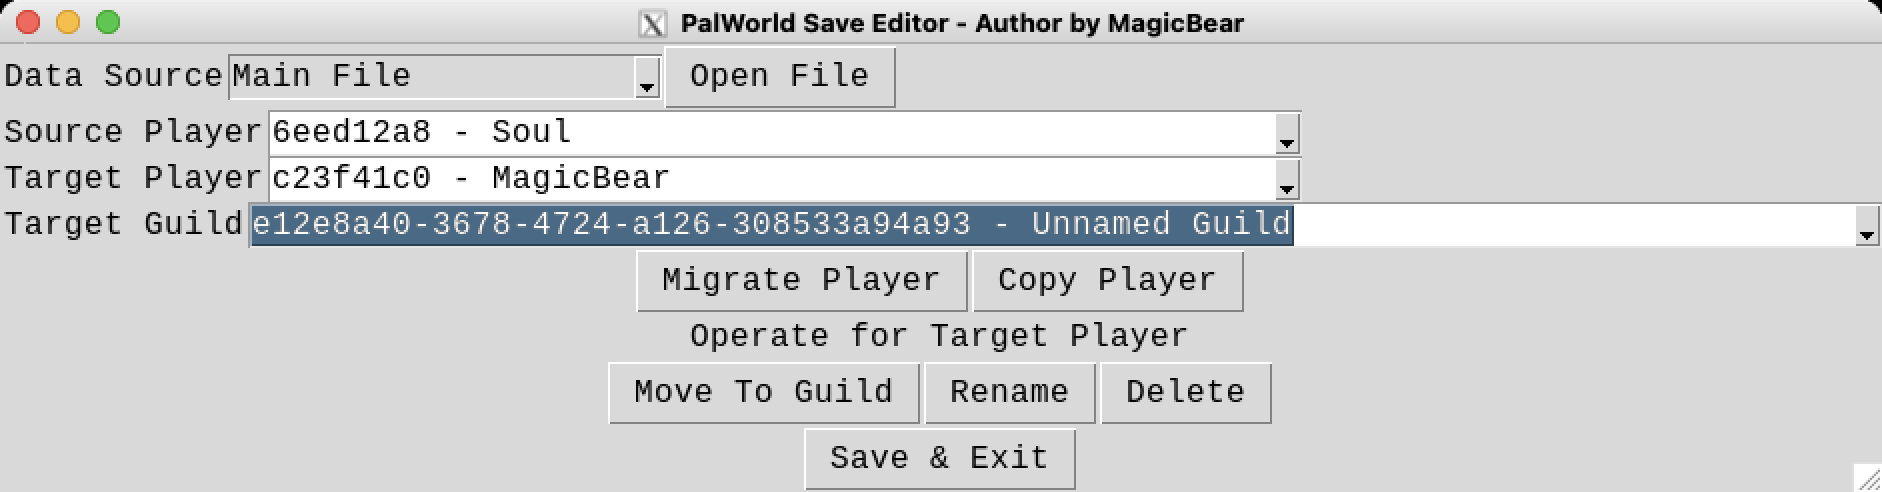
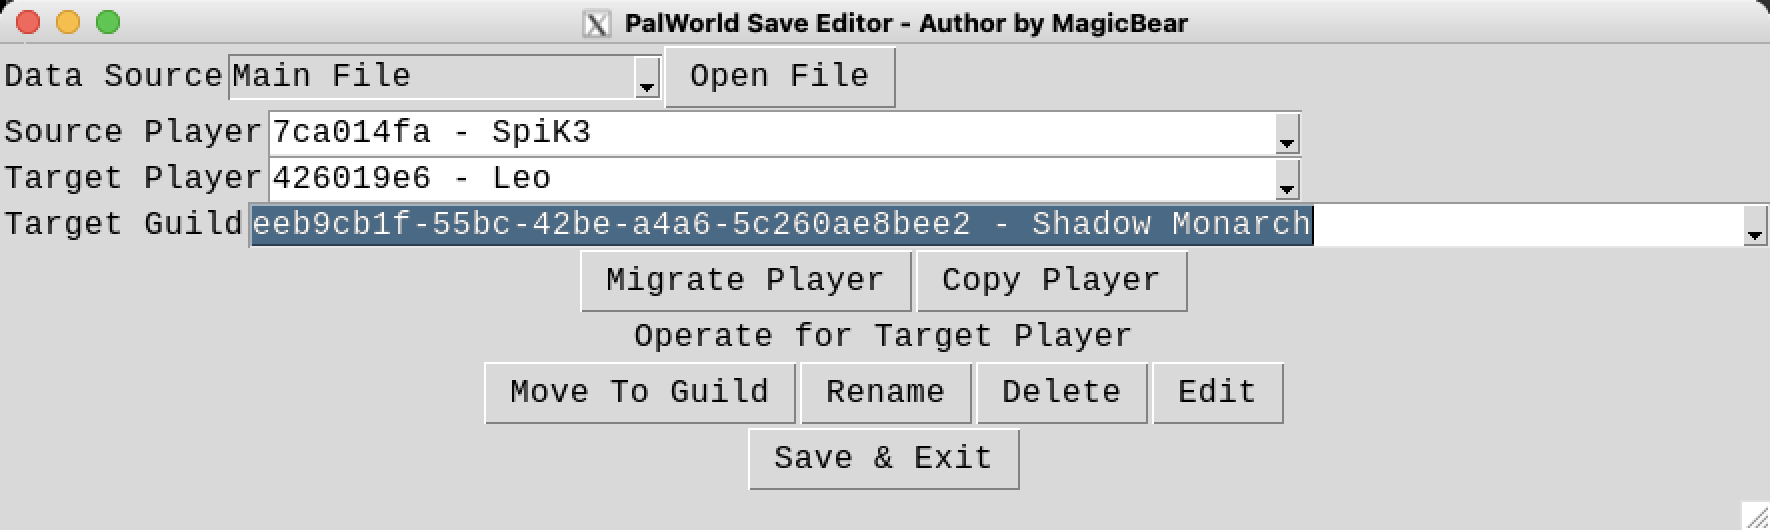
Update 0.1.9: add player editor

Changed region(s): [[0.0, 0.0, 1.0, 1.0], [0.9944, 0.9451, 1.0, 1.0], [0.9944, 0.0, 1.0, 0.0305]]

diff --git a/palworld_server_toolkit/editor.py b/palworld_server_toolkit/editor.py
@@ -313,6 +313,158 @@ def main():
     if args.fix_missing or args.fix_capture:
         Save()
 
+
+class PlayerEditGUI(tk.Tk):
+    def __init__(self, player_uid):
+        super().__init__()
+        self.gui = self
+        self.parent = self
+        self.player_uid = player_uid
+        self.player = instanceMapping[str(playerMapping[player_uid]['InstanceId'])]['value']['RawData']['value']['object']['SaveParameter']['value']
+        self.gui.title("Player Edit - %s" % player_uid)
+        self.gui_attribute = {}
+        #
+        self.font = TkFont.Font(family="Courier New")
+        self.build_variable_gui(self.gui, self.gui_attribute, self.player)
+        btn_save = tk.Button(master=self.gui, font=self.font, text="Save", command=self.saveplayer)
+        btn_save.pack(fill=X)
+    
+    def build_subgui(self, g_frame, attribute_key, attrib_var, attrib):
+        sub_frame = ttk.Frame(master=g_frame)
+        sub_frame.pack(side="right")
+        sub_frame_c = ttk.Frame(master=sub_frame)
+        cmbx = ttk.Combobox(master=sub_frame, font=self.font, width=20, state="readonly",
+                            values=["Item %d" % i for i in range(len(attrib['value']['values']))])
+        cmbx.bind("<<ComboboxSelected>>",
+                  lambda evt: self.cmb_array_selected(evt, sub_frame_c, attribute_key, attrib_var, attrib))
+        # , attribute_key, attrib_var[attribute_key],
+        #                                                                 attrib['value']['values']
+        cmbx.pack(side="top")
+        sub_frame_c.pack(side="top")
+
+    def valid_int(self, value):
+        print("valid int ", value)
+        try:
+            int(value)
+            return True
+        except ValueError as e:
+            return False
+
+    def valid_float(self, value):
+        print("valid float ", value)
+        try:
+            float(value)
+            return True
+        except ValueError as e:
+            return False
+
+    def build_variable_gui(self, parent, attrib_var, attribs):
+        font = self.font
+        for attribute_key in attribs:
+            attrib = attribs[attribute_key]
+            if 'type' in attrib:
+                g_frame = tk.Frame(master=parent)
+                g_frame.pack(anchor=W, fill=X, expand=True)
+                tk.Label(master=g_frame, text=attribute_key, font=font).pack(side="left")
+                if attrib['type'] in ["IntProperty", "StrProperty", "NameProperty", "FloatProperty"] or \
+                        (attrib['type'] == "StructProperty" and attrib['struct_type'] == "FixedPoint64"):
+                    attrib_var[attribute_key] = tk.StringVar(master=parent)
+                    valid_cmd = None
+                    if attrib['type'] in ["IntProperty"] or \
+                        (attrib['type'] == "StructProperty" and attrib['struct_type'] == "FixedPoint64" and
+                        attrib['value']['Value']['type'] == "Int64Property"):
+                        valid_cmd = (self.register(self.valid_int), '%P')
+                    elif attrib['type'] == "FloatProperty":
+                        valid_cmd = (self.register(self.valid_float), '%P')
+                    tk.Entry(font=font, master=g_frame, 
+                             validate='all', validatecommand=valid_cmd, 
+                             textvariable=attrib_var[attribute_key]).pack(
+                        side="right")
+                    if attrib['type'] in ["IntProperty", "StrProperty", "NameProperty", "FloatProperty"]:
+                        attrib_var[attribute_key].set(str(attrib['value']))
+                    elif attrib['type'] == "StructProperty" and attrib['struct_type'] == "FixedPoint64" and \
+                        attrib['value']['Value']['type'] == "Int64Property":
+                        attrib_var[attribute_key].set(str(attrib['value']['Value']['value']))
+                elif attrib['type'] == "BoolProperty":
+                    attrib_var[attribute_key] = tk.BooleanVar(master=parent)
+                    tk.Checkbutton(master=g_frame, text="Enabled", variable=attrib_var[attribute_key]).pack(
+                        side="left")
+                    attrib_var[attribute_key].set(attrib['value'])
+                elif attrib['type'] == "ArrayProperty":
+                    attrib_var[attribute_key] = []
+                    for x in range(len(attrib['value']['values'])):
+                        attrib_var[attribute_key].append({})
+                    self.build_subgui(g_frame, attribute_key, attrib_var[attribute_key], attrib)
+                elif attrib['type'] == "EnumProperty" and attrib['value']['type'] == "EPalWorkSuitability":
+                    attrib_var[attribute_key] = tk.StringVar(master=parent)
+                    enum_options = ['EPalWorkSuitability::EmitFlame', 'EPalWorkSuitability::Watering', 'EPalWorkSuitability::Seeding',
+                     'EPalWorkSuitability::GenerateElectricity', 'EPalWorkSuitability::Handcraft',
+                     'EPalWorkSuitability::Collection', 'EPalWorkSuitability::Deforest', 'EPalWorkSuitability::Mining',
+                     'EPalWorkSuitability::OilExtraction', 'EPalWorkSuitability::ProductMedicine',
+                     'EPalWorkSuitability::Cool', 'EPalWorkSuitability::Transport', 'EPalWorkSuitability::MonsterFarm']
+                    if attrib['value']['value'] not in enum_options:
+                        enum_options.append(attrib['value']['value'])
+                    ttk.Combobox(master=g_frame, font=self.font, state="readonly",
+                                 textvariable=attrib_var[attribute_key],
+                                    values=enum_options).pack(side="right")
+                    attrib_var[attribute_key].set(attrib['value']['value'])
+                else:
+                    print("  ", attribute_key, attrib['type'], attrib['value'])
+            else:
+                print(attribute_key, self.player[attribute_key])
+                continue
+    
+    def cmb_array_selected(self, evt, g_frame, attribute_key, attrib_var, attrib):
+        for item in g_frame.winfo_children():
+            item.destroy()
+        print("Binding to %s[%d]" % (attribute_key, evt.widget.current()))
+        self.build_variable_gui(g_frame, attrib_var[evt.widget.current()],
+                                attrib['value']['values'][evt.widget.current()])
+    
+    def save(self, attribs, attrib_var, path=""):
+        for attribute_key in attribs:
+            attrib = attribs[attribute_key]
+            if attribute_key not in attrib_var:
+                continue
+            if 'type' in attrib:
+                if attrib['type'] == "IntProperty":
+                    print("%s%s [%s] = %d -> %d" % (path, attribute_key, attrib['type'], attribs[attribute_key]['value'], int(attrib_var[attribute_key].get())))
+                    attribs[attribute_key]['value'] = int(attrib_var[attribute_key].get())
+                elif attrib['type'] == "FloatProperty":
+                    print("%s%s [%s] = %f -> %f" % (path, attribute_key, attrib['type'],attribs[attribute_key]['value'], float(attrib_var[attribute_key].get())))
+                    attribs[attribute_key]['value'] = float(attrib_var[attribute_key].get())
+                elif attrib['type'] == "BoolProperty":
+                    print("%s%s [%s] = %d -> %d" % (path, attribute_key, attrib['type'], attribs[attribute_key]['value'],
+                                                 attrib_var[attribute_key].get()))
+                    attribs[attribute_key]['value'] = attrib_var[attribute_key].get()
+                elif attrib['type'] == "StructProperty" and attrib['struct_type'] == "FixedPoint64":
+                    if attrib['value']['Value']['type'] == "Int64Property":
+                        print("%s%s [%s.%s] = %d -> %d" % (path, attribute_key, attrib['type'], attrib['value']['Value']['type'],
+                                                        attribs[attribute_key]['value']['Value']['value'],
+                                                        int(attrib_var[attribute_key].get())))
+                        attribs[attribute_key]['value']['Value']['value'] = int(attrib_var[attribute_key].get())
+                    else:
+                        print("Error: unsupported property type -> %s[%s.%s]" % (attribute_key, attrib['type'], attrib['value']['Value']['type']))
+                elif attrib['type'] in ["StrProperty", "NameProperty"]:
+                    print("%s%s [%s] = %s -> %s" % (path, attribute_key, attrib['type'], attribs[attribute_key]['value'],
+                                                 attrib_var[attribute_key].get()))
+                    attribs[attribute_key]['value'] = attrib_var[attribute_key].get()
+                elif attrib['type'] == "EnumProperty":
+                    print("%s%s [%s - %s] = %s -> %s" % (path, attribute_key, attrib['type'], attrib['value']['type'],
+                                                         attribs[attribute_key]['value']['value'],
+                                                 attrib_var[attribute_key].get()))
+                    attribs[attribute_key]['value']['value'] = attrib_var[attribute_key].get()
+                elif attrib['type'] == "ArrayProperty":
+                    for idx, item in enumerate(attrib['value']['values']):
+                        print("%s%s [%s] = " % (path, attribute_key, attrib['type']))
+                        self.save(item, attrib_var[attribute_key][idx], "%s[%d]." % (attribute_key, idx))
+                else:
+                    print("Error: unsupported property type -> %s[%s]" % (attribute_key, attrib['type']))
+    
+    def saveplayer(self):
+        self.save(self.player, self.gui_attribute)
+        self.destroy()
+
 class GUI():
     def __init__(self):
         global gui
@@ -494,6 +646,13 @@ class GUI():
                 sys.exit(0)
             except Exception as e:
                 messagebox.showerror("Save Error", str(e))
+
+    def edit_player(self):
+        target_uuid = self.parse_target_uuid()
+        if target_uuid is None:
+            return
+
+        player_gui = PlayerEditGUI(target_uuid)
     
     def build_gui(self):
         #
@@ -548,6 +707,8 @@ class GUI():
         g_rename.pack(side="left")
         g_delete = tk.Button(master=g_button_frame, text="Delete", font=font, command=self.delete_player)
         g_delete.pack(side="left")
+        g_edit = tk.Button(master=g_button_frame, text="Edit", font=font, command=self.edit_player)
+        g_edit.pack(side="left")
         g_button_frame.pack()
         
         g_save = tk.Button(text="Save & Exit", font=font, command=self.save)
@@ -555,7 +716,6 @@ class GUI():
         
         self.load_players()
         self.load_guilds()
-
 
 def LoadFile(filename):
     global filetime, gvas_file, wsd

diff --git a/README.en.md b/README.en.md
@@ -16,6 +16,7 @@
 ### GUI
 
 ![](./docs/img/GUI.png)
+![](./docs/img/EditPlayer.png)
 
 ### Install
 

diff --git a/README.md b/README.md
@@ -14,6 +14,7 @@
 ### GUI
 
 ![](./docs/img/GUI.png)
+![](./docs/img/EditPlayer.png)
 
 ### 安装
 
